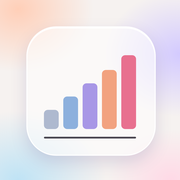
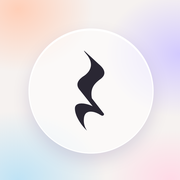
Nuevo ícono: silencio de negra en un círculo de vidrio
Claude-Session: https://claude.ai/code/session_012FHvUcwNr3w5FirR3L8Qqk

diff --git a/sw.template.js b/sw.template.js
@@ -1,5 +1,5 @@
 /* Service worker: guarda la app para usarla sin internet. Con internet siempre busca la versión nueva primero. */
-const CACHE = "mapa-bateria-__VERSION__";
+const CACHE = "mapa-bateria-__VERSION__-i2";
 const FILES = ["./", "index.html", "seed.js", "manifest.webmanifest", "icons/icon-180.png", "icons/icon-192.png", "icons/icon-512.png", "icons/icon-maskable-512.png"];
 self.addEventListener("install", e => { e.waitUntil(caches.open(CACHE).then(c => c.addAll(FILES)).then(() => self.skipWaiting())); });
 self.addEventListener("activate", e => {

diff --git a/sw.js b/sw.js
@@ -1,5 +1,5 @@
 /* Service worker: guarda la app para usarla sin internet. Con internet siempre busca la versión nueva primero. */
-const CACHE = "mapa-bateria-14db6631d8";
+const CACHE = "mapa-bateria-14db6631d8-i2";
 const FILES = ["./", "index.html", "seed.js", "manifest.webmanifest", "icons/icon-180.png", "icons/icon-192.png", "icons/icon-512.png", "icons/icon-maskable-512.png"];
 self.addEventListener("install", e => { e.waitUntil(caches.open(CACHE).then(c => c.addAll(FILES)).then(() => self.skipWaiting())); });
 self.addEventListener("activate", e => {

diff --git a/index.html b/index.html
@@ -12,7 +12,7 @@
 <meta name="theme-color" content="#F6F2F0" media="(prefers-color-scheme: light)">
 <meta name="theme-color" content="#100E17" media="(prefers-color-scheme: dark)">
 <link rel="manifest" href="manifest.webmanifest">
-<link rel="apple-touch-icon" href="icons/icon-180.png">
+<link rel="apple-touch-icon" href="icons/icon-180.png?v=2">
 <link rel="icon" type="image/png" href="icons/icon-192.png">
 <script src="seed.js"></script>
 </head>

diff --git a/build.py b/build.py
@@ -28,7 +28,7 @@ html = f'''<!doctype html>
 <meta name="theme-color" content="#F6F2F0" media="(prefers-color-scheme: light)">
 <meta name="theme-color" content="#100E17" media="(prefers-color-scheme: dark)">
 <link rel="manifest" href="manifest.webmanifest">
-<link rel="apple-touch-icon" href="icons/icon-180.png">
+<link rel="apple-touch-icon" href="icons/icon-180.png?v=2">
 <link rel="icon" type="image/png" href="icons/icon-192.png">
 <script src="seed.js"></script>
 </head>
